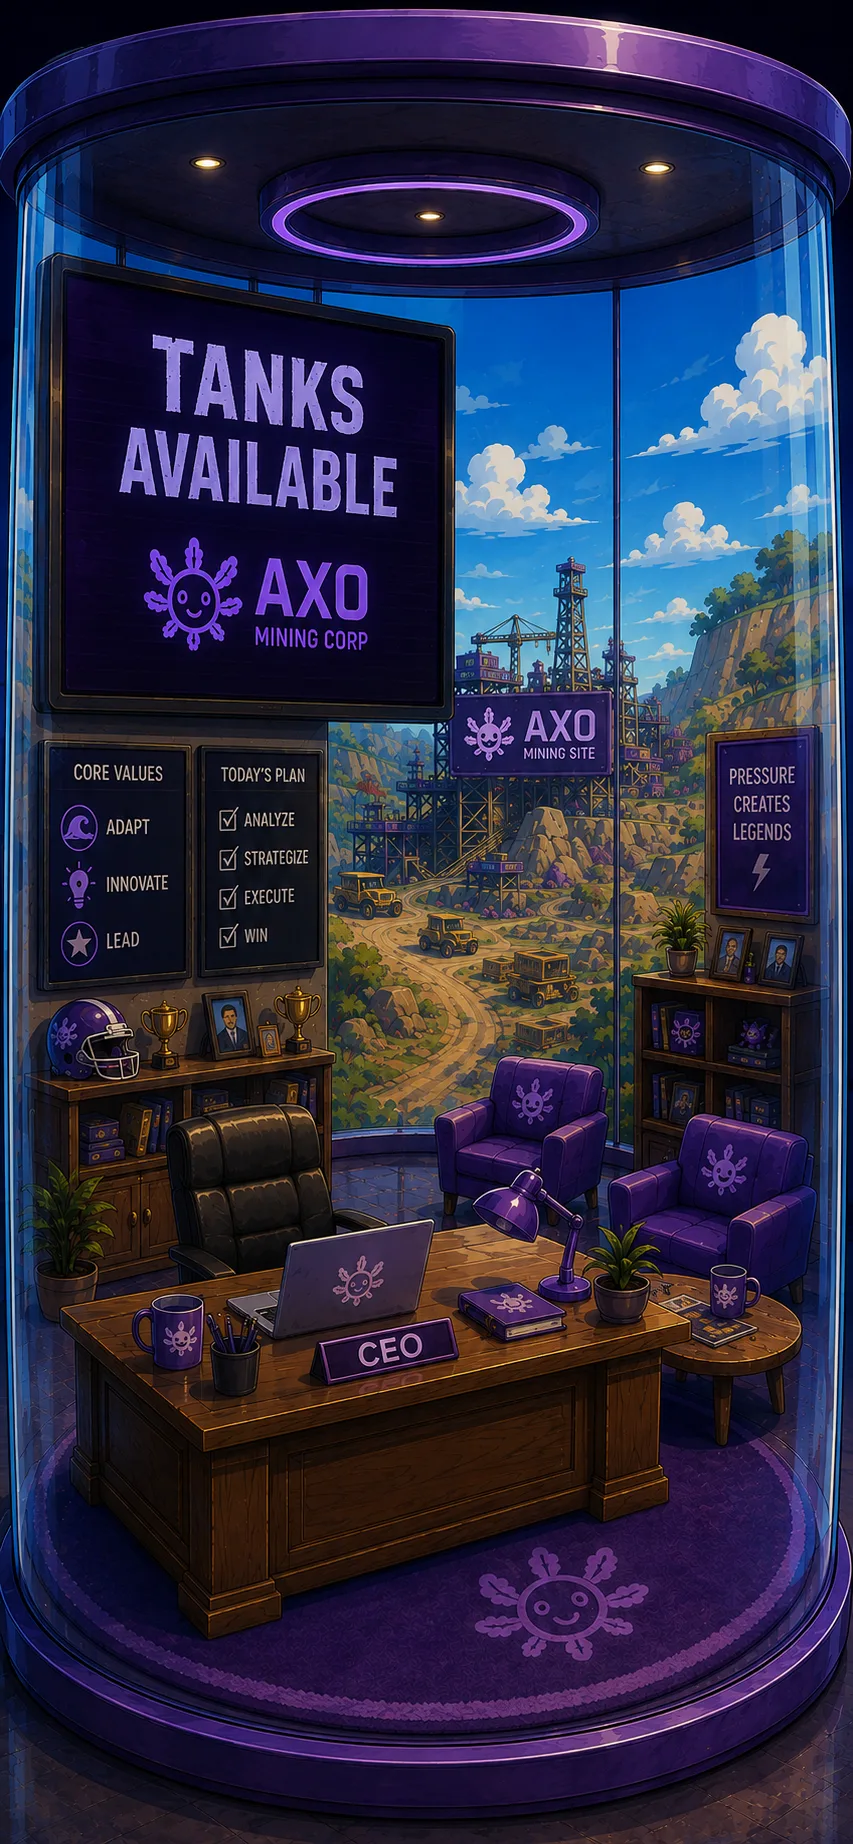
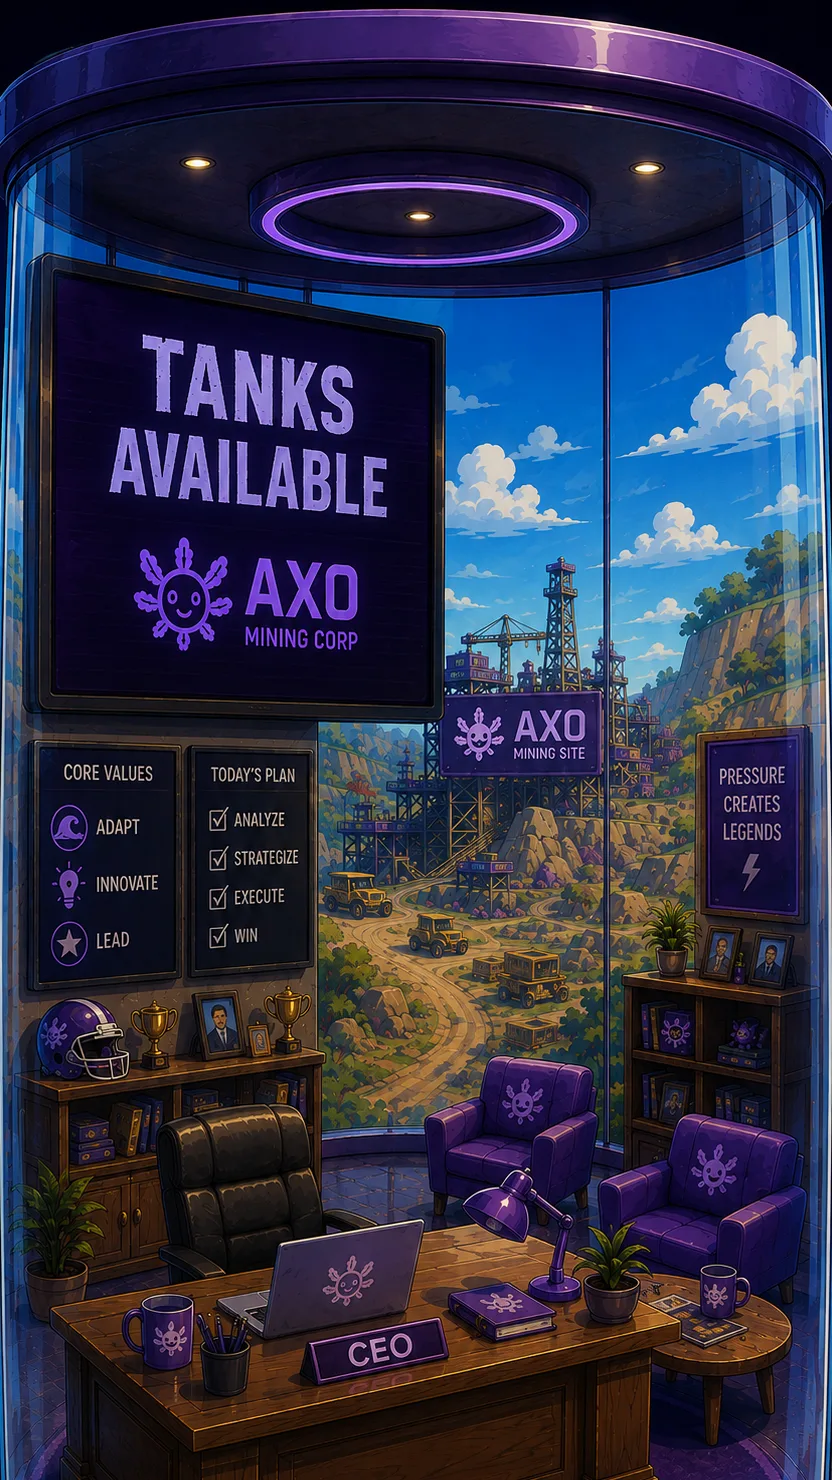
Fix Tank HQ screen hotspot misalignment, add idle shimmer
The image-optimization fix from the last pass extracted the source
SVG's embedded raster wholesale and assumed matching it 1:1 to
TankScreen.tsx's target viewBox was safe. Tanks- Background.svg's
embedding transform actually crops and off-centers its raster within
the SVG's own viewBox (verified by parsing the transform matrix
directly) - shipping the raster uncropped shifted the "TANKS AVAILABLE"
screen relative to its hand-traced hotspot, letting the glow highlight
spill into the CORE VALUES/TODAY'S PLAN panels below it - live on
production.

scripts/optimize-landing-images.ts now computes the correct visible
crop by parsing the source's own declared viewBox and embedding
transform, instead of assuming the full raster is always the right
crop. Verified by rendering the original SVG and the new cropped WebP
side by side (pixel-identical) and by checking real click coordinates
against the live page - a point inside the screen resolves to the
hotspot, a point in the panel area below it (where the bug's glow
incorrectly extended) does not.

Also gives the screen's outline/scanline a low-intensity idle shimmer
(previously fully invisible until hover/focus) so it reads as clickable
before interaction, with prefers-reduced-motion handling.

diff --git a/scripts/optimize-landing-images.ts b/scripts/optimize-landing-images.ts
@@ -119,25 +119,86 @@ interface GameBackgroundJob {
 }
 
 /**
+ * These Canva exports don't embed the raster at a plain 1:1 scale - each
+ * wraps it in a `<g transform="matrix(a,0,0,d,e,f)">` that maps raw pixel
+ * space onto the SVG's OWN top-level viewBox (its declared `viewBox="0 0 W
+ * H"`, which is the correct reference frame here - NOT whatever size the
+ * consuming React component later requests when it embeds the whole file;
+ * that's a separate, later uniform rescale that only avoids distorting
+ * anything when this inner step is already right). HeatChecksWorldMap.svg
+ * happens to embed its raster at exactly 1:1 with its own viewBox (no crop
+ * needed - verified by computing this and finding the visible region equals
+ * the full raster), but Tanks- Background.svg does not: its raster is
+ * oversized and off-center relative to the viewBox, so only a cropped
+ * sub-region is ever actually visible. Extracting the FULL raster unchanged
+ * (as an earlier version of this script did) reproduced the wrong pixels at
+ * the wrong scale once esbuild stopped going through the SVG's own viewBox
+ * math and started embedding the raster directly - same file size win, but
+ * it silently shifted the artwork relative to the hand-traced hotspot on the
+ * Tank screen. Computing and applying this crop up front means the output
+ * file's own aspect ratio already matches the target viewBox exactly, so a
+ * plain `<image width height>` embed needs no further scaling to reproduce
+ * the original placement.
+ */
+function computeVisibleRasterCrop(
+    svgPath: string,
+    nativeWidth: number,
+    nativeHeight: number,
+): { left: number; top: number; width: number; height: number } {
+    const svg = fs.readFileSync(svgPath, 'utf-8');
+    const viewBoxMatch = svg.match(/<svg[^>]*viewBox="0 0 ([\d.]+) ([\d.]+)"/);
+    const gMatch = svg.match(/<g transform="matrix\(([^)]+)\)">/);
+    if (!viewBoxMatch || !gMatch) {
+        throw new Error(`Could not find the outer viewBox / embedding transform in ${svgPath}`);
+    }
+    const [, vbWStr, vbHStr] = viewBoxMatch;
+    const [a, , , d, e, f] = gMatch[1].split(',').map(Number);
+    const vbW = Number(vbWStr);
+    const vbH = Number(vbHStr);
+
+    // Invert the transform: which raw-pixel range maps onto the visible
+    // [0,vbW] x [0,vbH] window?
+    const pxMin = -e / a;
+    const pxMax = (vbW - e) / a;
+    const pyMin = -f / d;
+    const pyMax = (vbH - f) / d;
+
+    const left = Math.round(pxMin);
+    const top = Math.round(pyMin);
+    const width = Math.round(pxMax - pxMin);
+    const height = Math.round(pyMax - pyMin);
+
+    if (left < 0 || top < 0 || left + width > nativeWidth || top + height > nativeHeight) {
+        throw new Error(
+            `${svgPath}: computed crop [${left},${top},${width}x${height}] falls outside the ` +
+            `native raster (${nativeWidth}x${nativeHeight}) - this source needs padding, not `+
+            `cropping; extend the script rather than guessing.`
+        );
+    }
+    return { left, top, width, height };
+}
+
+/**
  * The game screens' full-bleed backgrounds (the interactive world map island
  * and individual Tank pages) were never wired into this optimization
  * pipeline - each ships its raw Canva SVG export directly
  * (components/WorldMap.tsx and components/TankScreen.tsx import straight from
  * assets/new-website/*.svg), at 3.2MB and 3.1MB respectively, because the
  * lossless-PNG-or-barely-compressed-JPEG payload embedded in the SVG never
- * got re-encoded. Unlike the `jobs` loop above, this must NOT trim or resize:
- * these components hand-trace hotspot paths and hardcode a VIEWBOX against
- * the source's exact, untrimmed pixel dimensions - changing the canvas size
- * or cropping would shift every hotspot out of alignment with the artwork.
- * Only the codec changes (PNG/JPEG -> WebP); same pixels, same canvas,
- * dramatically smaller file.
+ * got re-encoded. Unlike the `jobs` loop above, this must NOT trim or resize
+ * beyond the exact visible-region crop computed above: these components
+ * hand-trace hotspot paths and hardcode a VIEWBOX against the source's exact
+ * pixel framing - cropping any differently (or not at all, when the source
+ * needs it) shifts every hotspot out of alignment with the artwork. Only the
+ * codec changes (PNG/JPEG -> WebP) and the crop that reproduces the SVG's own
+ * original framing; dramatically smaller file, identical picture.
  */
 const gameBackgroundJobs: GameBackgroundJob[] = [
     { source: 'Tanks- Background.svg', outName: 'tanks-bg' },
     // Distinct from the trimmed/resized 'world-map' job above (that one feeds
     // the static waitlist page's <img>) - the interactive island
-    // (components/WorldMap.tsx) needs the untrimmed canvas its hand-traced
-    // region hotspots are calibrated to.
+    // (components/WorldMap.tsx) needs the canvas its hand-traced region
+    // hotspots are calibrated to.
     { source: 'HeatChecksWorldMap.svg', outName: 'world-map-interactive', blackBackground: true },
 ];
 
@@ -145,6 +206,9 @@ async function buildGameBackgrounds(): Promise<void> {
     for (const job of gameBackgroundJobs) {
         const svgPath = path.join(sourceDir, job.source);
         let buffer = extractLargestEmbeddedRaster(svgPath);
+        const nativeMeta = await sharp(buffer).metadata();
+        const crop = computeVisibleRasterCrop(svgPath, nativeMeta.width!, nativeMeta.height!);
+        buffer = await sharp(buffer).extract(crop).toBuffer();
         if (job.blackBackground) {
             buffer = await deriveAlphaFromBrightness(buffer);
         }
@@ -154,9 +218,11 @@ async function buildGameBackgrounds(): Promise<void> {
 
         const webpSize = fs.statSync(webpPath).size;
         const originalSize = fs.statSync(svgPath).size;
+        const cropped = crop.width !== nativeMeta.width || crop.height !== nativeMeta.height;
         console.log(
             `✓ ${job.source} (${(originalSize / 1024 / 1024).toFixed(1)}MB) -> ` +
-            `${job.outName}.webp (${(webpSize / 1024).toFixed(0)}KB) [${info.width}x${info.height}, unchanged]`
+            `${job.outName}.webp (${(webpSize / 1024).toFixed(0)}KB) [${info.width}x${info.height}` +
+            `${cropped ? `, cropped from native ${nativeMeta.width}x${nativeMeta.height}` : ', native size'}]`
         );
     }
 }

diff --git a/components/TankScreen.css b/components/TankScreen.css
@@ -68,12 +68,18 @@
   transition: opacity 0.35s ease;
 }
 
+/* Idle shimmer: the outline sits at a low resting opacity (rather than fully
+   invisible) and breathes slowly, and the scanline sweeps continuously at low
+   intensity - both read as "this screen is alive, click it" before any
+   hover/focus. .is-active (below) boosts both to their full hover strength,
+   so interacting still reads as a clear step up, not just "more of the same". */
 .tank-screen__outline {
   stroke: #2fe6d9;
   stroke-width: 2.5;
-  opacity: 0;
+  opacity: 0.32;
   filter: drop-shadow(0 0 6px #2fe6d9);
   transition: opacity 0.3s ease;
+  animation: tank-hotspot-idle-shimmer 3.2s ease-in-out infinite;
 }
 
 .tank-screen__brighten {
@@ -91,8 +97,9 @@
 
 .tank-screen__scanline {
   fill: url(#tank-screen-scanline-gradient);
-  opacity: 0;
+  opacity: 0.16;
   transition: opacity 0.4s ease;
+  animation: tank-scanline-sweep 4.5s linear infinite;
 }
 
 .tank-screen__hit {
@@ -107,6 +114,7 @@
 
 .tank-screen__hotspot.is-active .tank-screen__outline {
   opacity: 1;
+  animation: none; /* full strength beats the idle breathe, not adds to it */
 }
 
 .tank-screen__hotspot.is-active .tank-screen__brighten {
@@ -121,6 +129,13 @@
 @keyframes tank-hotspot-pulse {
   0%, 100% { stroke-width: 8; opacity: 0.6; }
   50% { stroke-width: 13; opacity: 0.9; }
+}
+
+/* Idle-only (pre-hover) breathe on the outline - subtle, so the screen reads
+   as "alive"/clickable without competing with the stronger .is-active pulse. */
+@keyframes tank-hotspot-idle-shimmer {
+  0%, 100% { opacity: 0.22; }
+  50% { opacity: 0.5; }
 }
 
 @keyframes tank-scanline-sweep {
@@ -368,9 +383,15 @@
 
 @media (prefers-reduced-motion: reduce) {
   .tank-screen__glow,
+  .tank-screen__outline,
+  .tank-screen__scanline,
   .tank-modal-overlay,
   .tank-modal-panel {
     animation: none !important;
     transition-duration: 0.01ms !important;
   }
+  /* The idle shimmer relies on the animation to be visible at all - freeze it
+     at a fixed low-but-present opacity instead of losing the affordance. */
+  .tank-screen__outline { opacity: 0.4; }
+  .tank-screen__scanline { opacity: 0.16; }
 }
